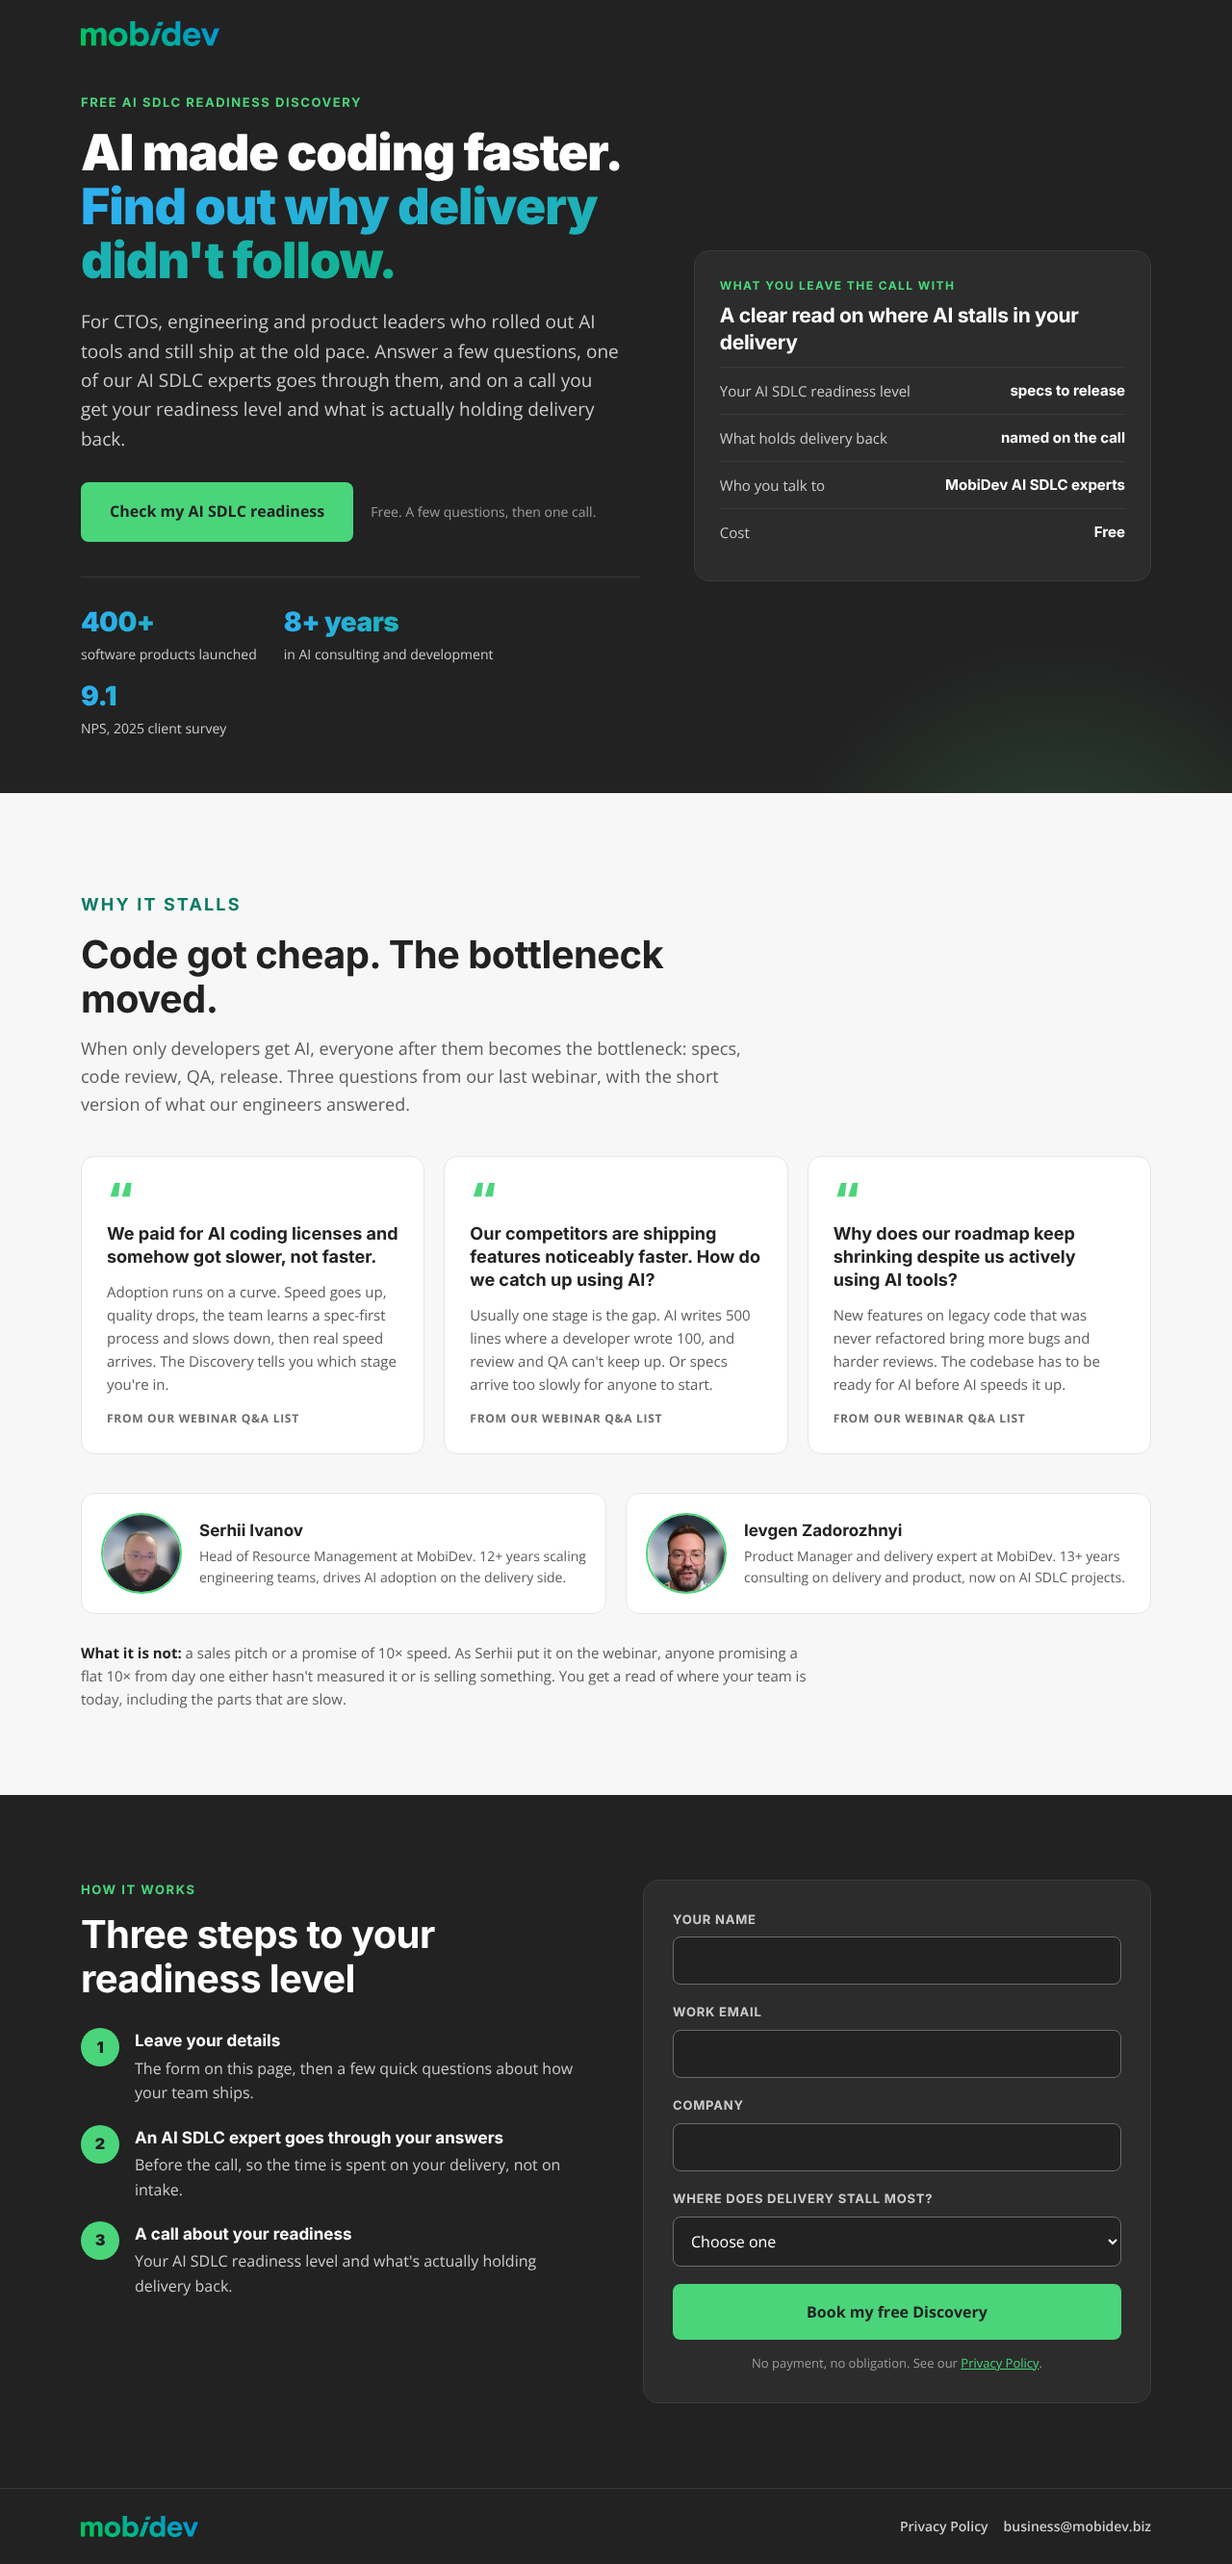
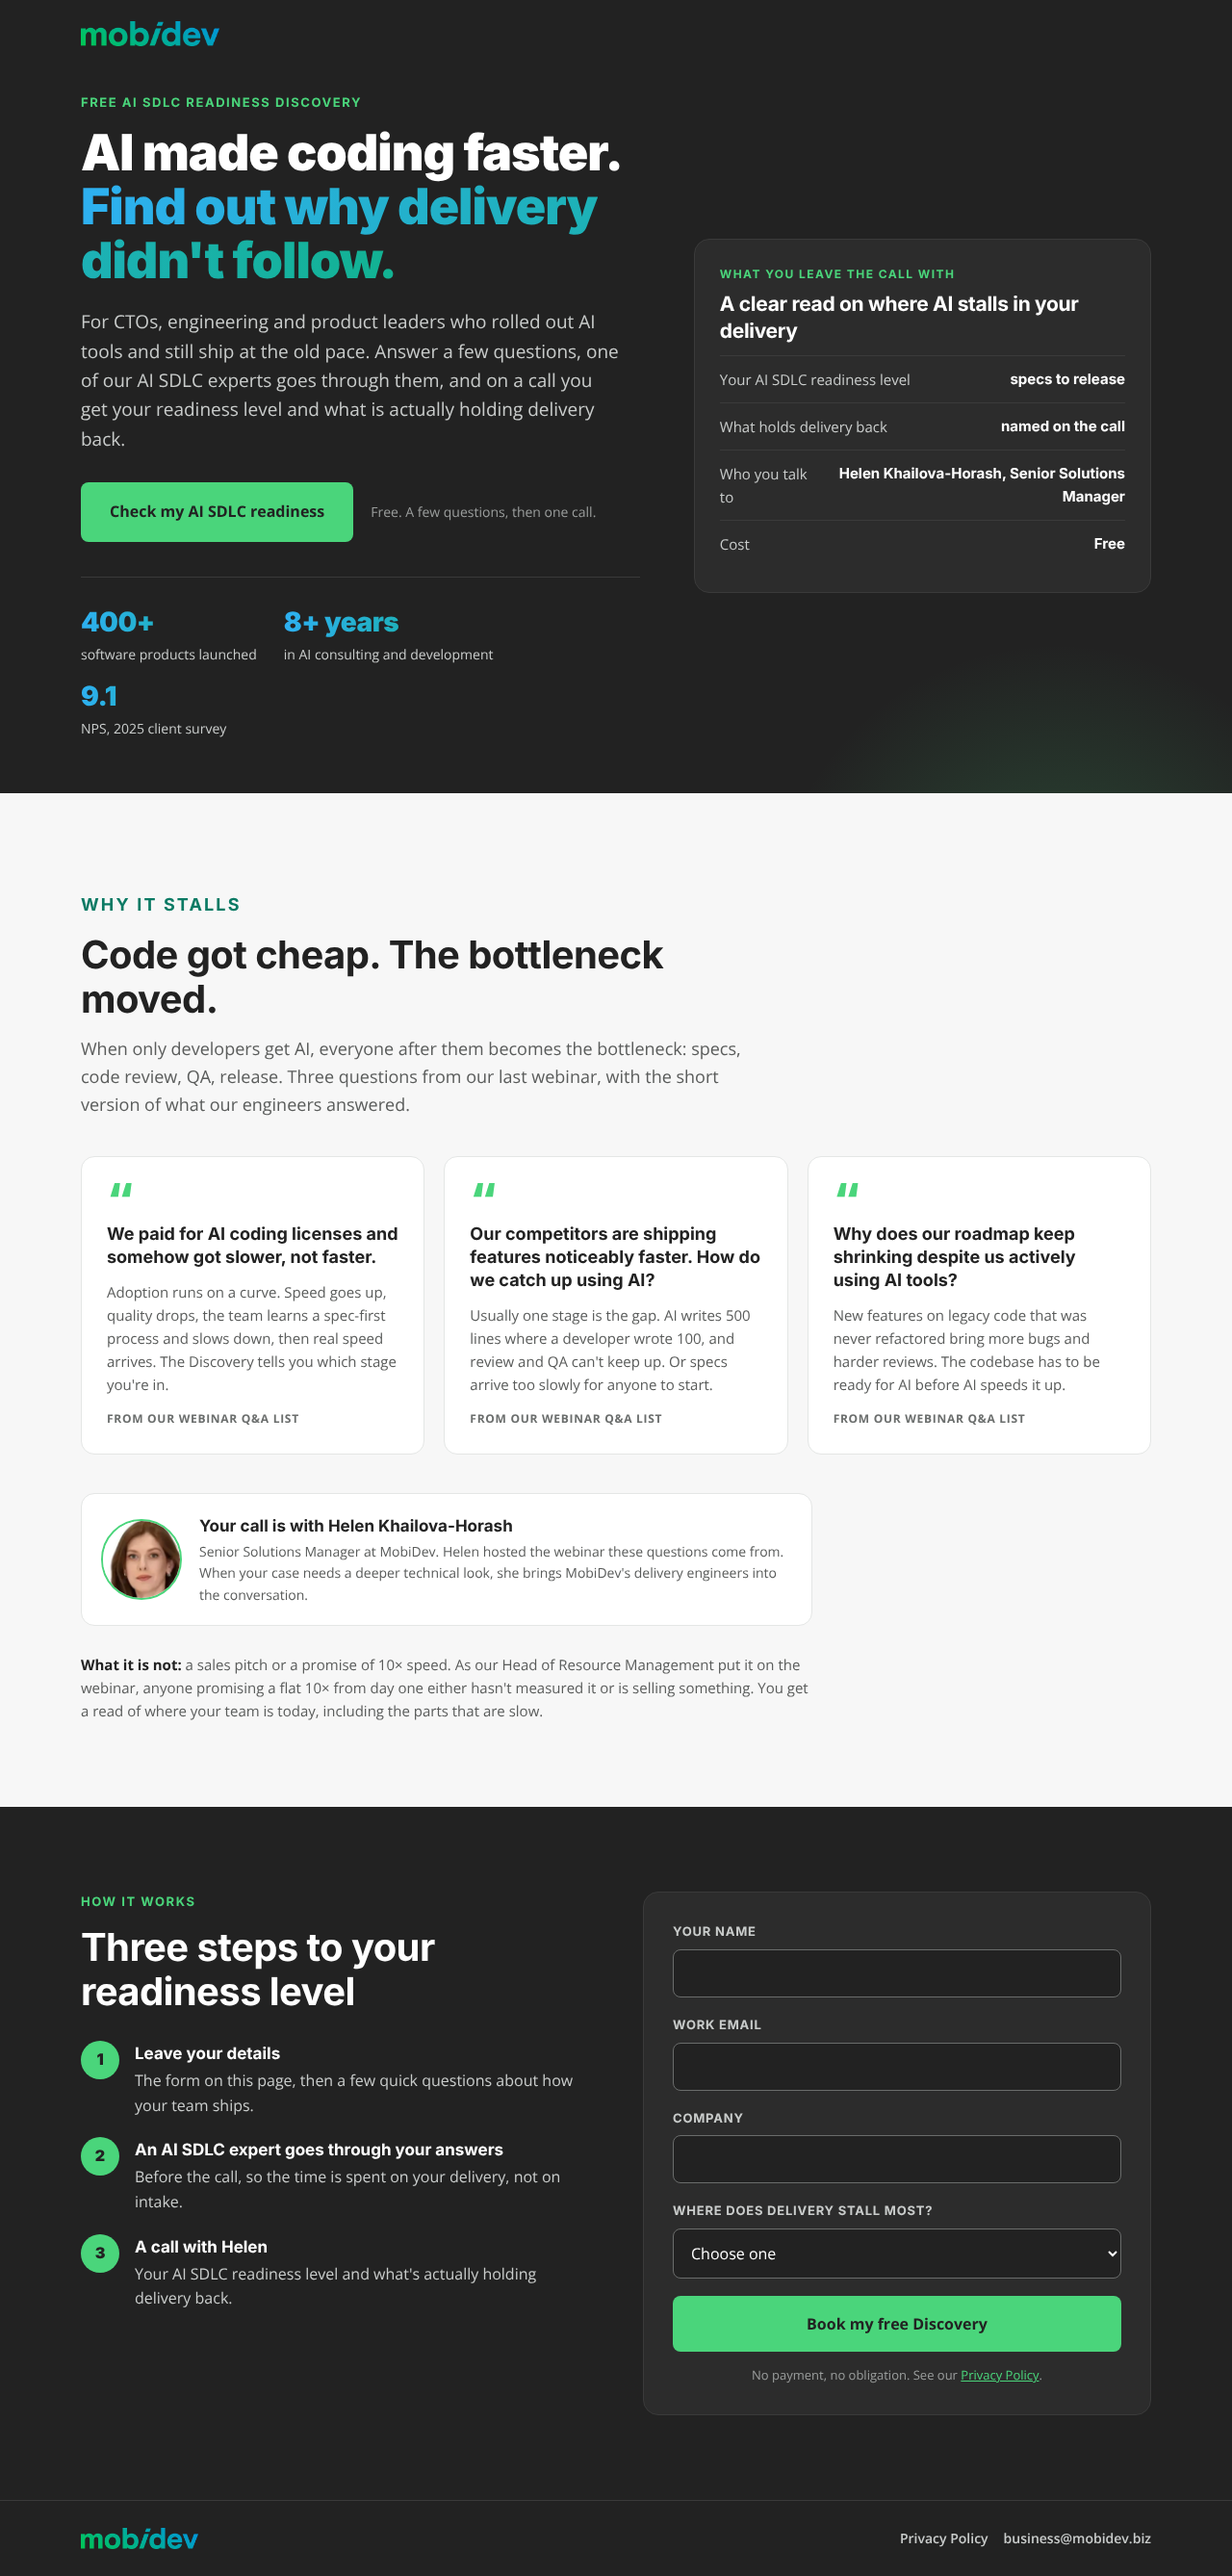
Discovery landing: Helen runs the call instead of the webinar speakers
Claude-Session: https://claude.ai/code/session_01Gck22a7G1bTGKXM5NbKb3E

diff --git a/ai-sdlc-discovery.html b/ai-sdlc-discovery.html
@@ -88,8 +88,7 @@ a{color:inherit}
 .q blockquote::before{content:"“";display:block;font-weight:900;font-size:44px;line-height:.8;color:var(--green);margin-bottom:6px}
 .q p{margin-top:12px;font-size:15px}
 .q small{display:block;margin-top:14px;font-size:12px;letter-spacing:.06em;text-transform:uppercase;color:#6B6E6D;font-weight:700}
-.people{display:grid;grid-template-columns:1fr 1fr;gap:20px;margin-top:40px}
-.person{display:flex;gap:18px;align-items:center;background:var(--white);border:1px solid var(--line);border-radius:14px;padding:20px}
+.person{display:flex;gap:18px;align-items:center;background:var(--white);border:1px solid var(--line);border-radius:14px;padding:20px;margin-top:40px;max-width:760px}
 .person img{width:84px;height:84px;border-radius:50%;object-fit:cover;border:2px solid var(--green);flex:0 0 84px}
 .person b{font-family:var(--font-display);font-size:17px;display:block}
 .person span{display:block;font-size:14px;color:var(--muted);margin-top:2px}
@@ -145,8 +144,7 @@ footer{background:var(--black);color:#9A9D9C;border-top:1px solid #3A3A3A;paddin
   .quotes{display:flex;overflow-x:auto;scroll-snap-type:x mandatory;gap:12px;margin:0 -24px;padding:0 24px 8px;scroll-padding:0 24px}
   .q{flex:0 0 84%;scroll-snap-align:start;padding:22px}
   .q blockquote{font-size:17px}
-  .people{grid-template-columns:1fr;gap:12px;margin-top:24px}
-  .person{padding:14px;gap:14px}
+  .person{padding:14px;gap:14px;margin-top:24px}
   .person img{width:60px;height:60px;flex-basis:60px}
   .person span{font-size:13px}
   .limit{font-size:14px;margin-top:20px}
@@ -186,7 +184,7 @@ footer{background:var(--black);color:#9A9D9C;border-top:1px solid #3A3A3A;paddin
       <h2 id="get-h">A clear read on where AI stalls in your delivery</h2>
       <div class="row"><span>Your AI SDLC readiness level</span><b>specs to release</b></div>
       <div class="row"><span>What holds delivery back</span><b>named on the call</b></div>
-      <div class="row"><span>Who you talk to</span><b>MobiDev AI SDLC experts</b></div>
+      <div class="row"><span>Who you talk to</span><b>Helen Khailova-Horash, Senior Solutions Manager</b></div>
       <div class="row"><span>Cost</span><b>Free</b></div>
     </aside>
   </div>
@@ -218,17 +216,11 @@ footer{background:var(--black);color:#9A9D9C;border-top:1px solid #3A3A3A;paddin
         <small>From our webinar Q&amp;A list</small>
       </figure>
     </div>
-    <div class="people" aria-label="Who runs the Discovery">
-      <div class="person">
-        <img src="ai-sdlc-discovery/serhii.webp" alt="Serhii Ivanov" width="84" height="84" loading="lazy">
-        <div><b>Serhii Ivanov</b><span>Head of Resource Management at MobiDev. 12+ years scaling engineering teams, drives AI adoption on the delivery side.</span></div>
-      </div>
-      <div class="person">
-        <img src="ai-sdlc-discovery/ievgen.webp" alt="Ievgen Zadorozhnyi" width="84" height="84" loading="lazy">
-        <div><b>Ievgen Zadorozhnyi</b><span>Product Manager and delivery expert at MobiDev. 13+ years consulting on delivery and product, now on AI SDLC projects.</span></div>
-      </div>
+    <div class="person" aria-label="Who you talk to">
+      <img src="ai-sdlc-discovery/helen.webp" alt="Helen Khailova-Horash" width="84" height="84" loading="lazy">
+      <div><b>Your call is with Helen Khailova-Horash</b><span>Senior Solutions Manager at MobiDev. Helen hosted the webinar these questions come from. When your case needs a deeper technical look, she brings MobiDev's delivery engineers into the conversation.</span></div>
     </div>
-    <p class="limit"><b>What it is not:</b> a sales pitch or a promise of 10× speed. As Serhii put it on the webinar, anyone promising a flat 10× from day one either hasn't measured it or is selling something. You get a read of where your team is today, including the parts that are slow.</p>
+    <p class="limit"><b>What it is not:</b> a sales pitch or a promise of 10× speed. As our Head of Resource Management put it on the webinar, anyone promising a flat 10× from day one either hasn't measured it or is selling something. You get a read of where your team is today, including the parts that are slow.</p>
   </div>
 </section>
 
@@ -241,7 +233,7 @@ footer{background:var(--black);color:#9A9D9C;border-top:1px solid #3A3A3A;paddin
       <ol class="steps">
         <li><div><b>Leave your details</b>The form on this page, then a few quick questions about how your team ships.</div></li>
         <li><div><b>An AI SDLC expert goes through your answers</b>Before the call, so the time is spent on your delivery, not on intake.</div></li>
-        <li><div><b>A call about your readiness</b>Your AI SDLC readiness level and what's actually holding delivery back.</div></li>
+        <li><div><b>A call with Helen</b>Your AI SDLC readiness level and what's actually holding delivery back.</div></li>
       </ol>
       <p class="soft" id="soft" hidden>Not ready for a call? <a href="#" id="soft-link" data-ev="soft_checklist">Download the free AI-Driven Modernization Readiness Checklist</a>.</p>
     </div>

diff --git a/ai-sdlc-discovery/TODO.md b/ai-sdlc-discovery/TODO.md
@@ -17,14 +17,16 @@ weakest axis = Technical layer.** Points are lost on the inputs below, not on co
 - [ ] Call length, and whether the client gets anything in writing after it.
 - [ ] What the "readiness level" looks like (a scale? how many levels?).
 - [ ] "Offer valid for 48 hours" from the webinar slide was left out on purpose: add it back only if it applies to this page.
-- [ ] Speaker bios (12+ / 13+ years, roles) are from the webinar intro: confirm with Serhii and Ievgen.
+- [ ] The call is with Helen Khailova-Horash (Senior Solutions Manager; title from the webinar's contact slide). Confirm the line
+      "she brings MobiDev's delivery engineers into the conversation" matches how presales works (on the webinar she said she
+      would bring them in "if our schedules allow").
 
 ## Content that would lift the score
 - [ ] **Soft alternative:** set `CHECKLIST_URL` in the page script to the AI-Driven Modernization Readiness Checklist page;
       the "Not ready for a call?" line appears by itself.
 - [ ] **One short case** with a number (e.g. the legacy retail operations platform from the webinar) for screen 2.
 - [ ] **FAQ of 3–4 questions** with FAQPage schema, once the answers above are known.
-- [ ] **Headshots:** the avatars are stills from the webinar video; replace with official photos.
+- [ ] **Headshot:** Helen's photo is cropped from the webinar's contact slide (168 px); swap for the original file.
 
 ## Deliberately left out (3-screen limit, campaign page)
 Navigation and breadcrumbs, related services, standards/stack, engagement models table (the offer is free).
